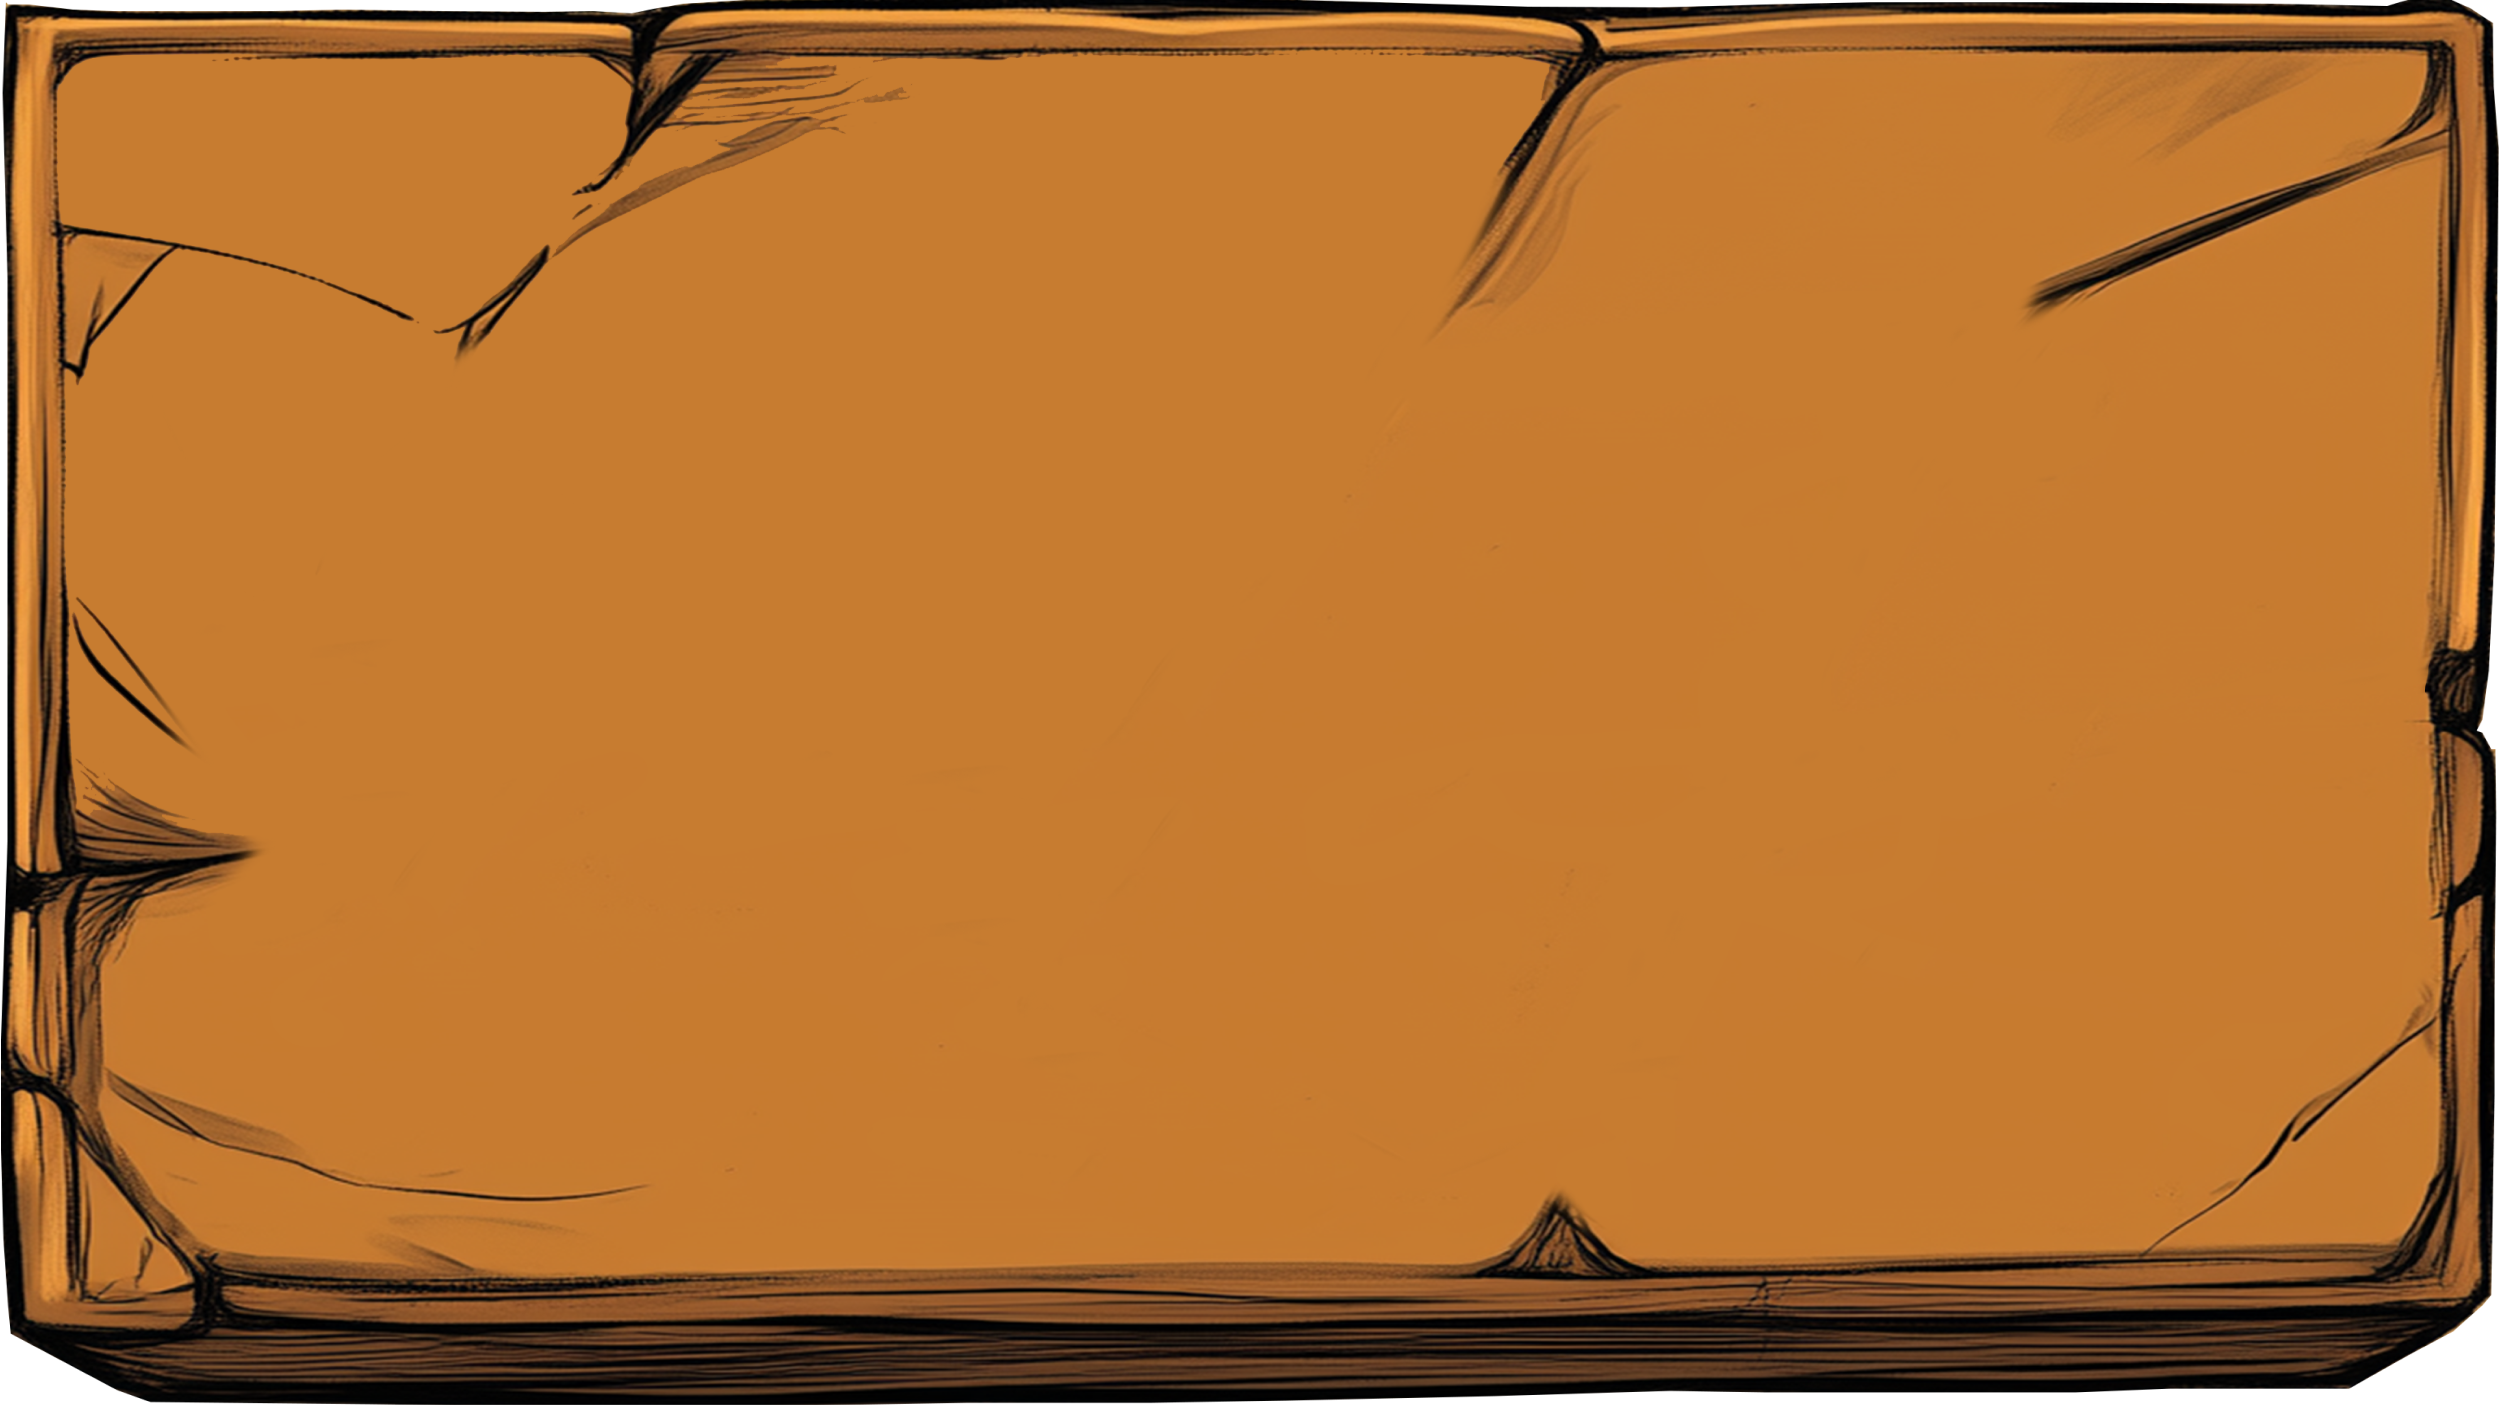
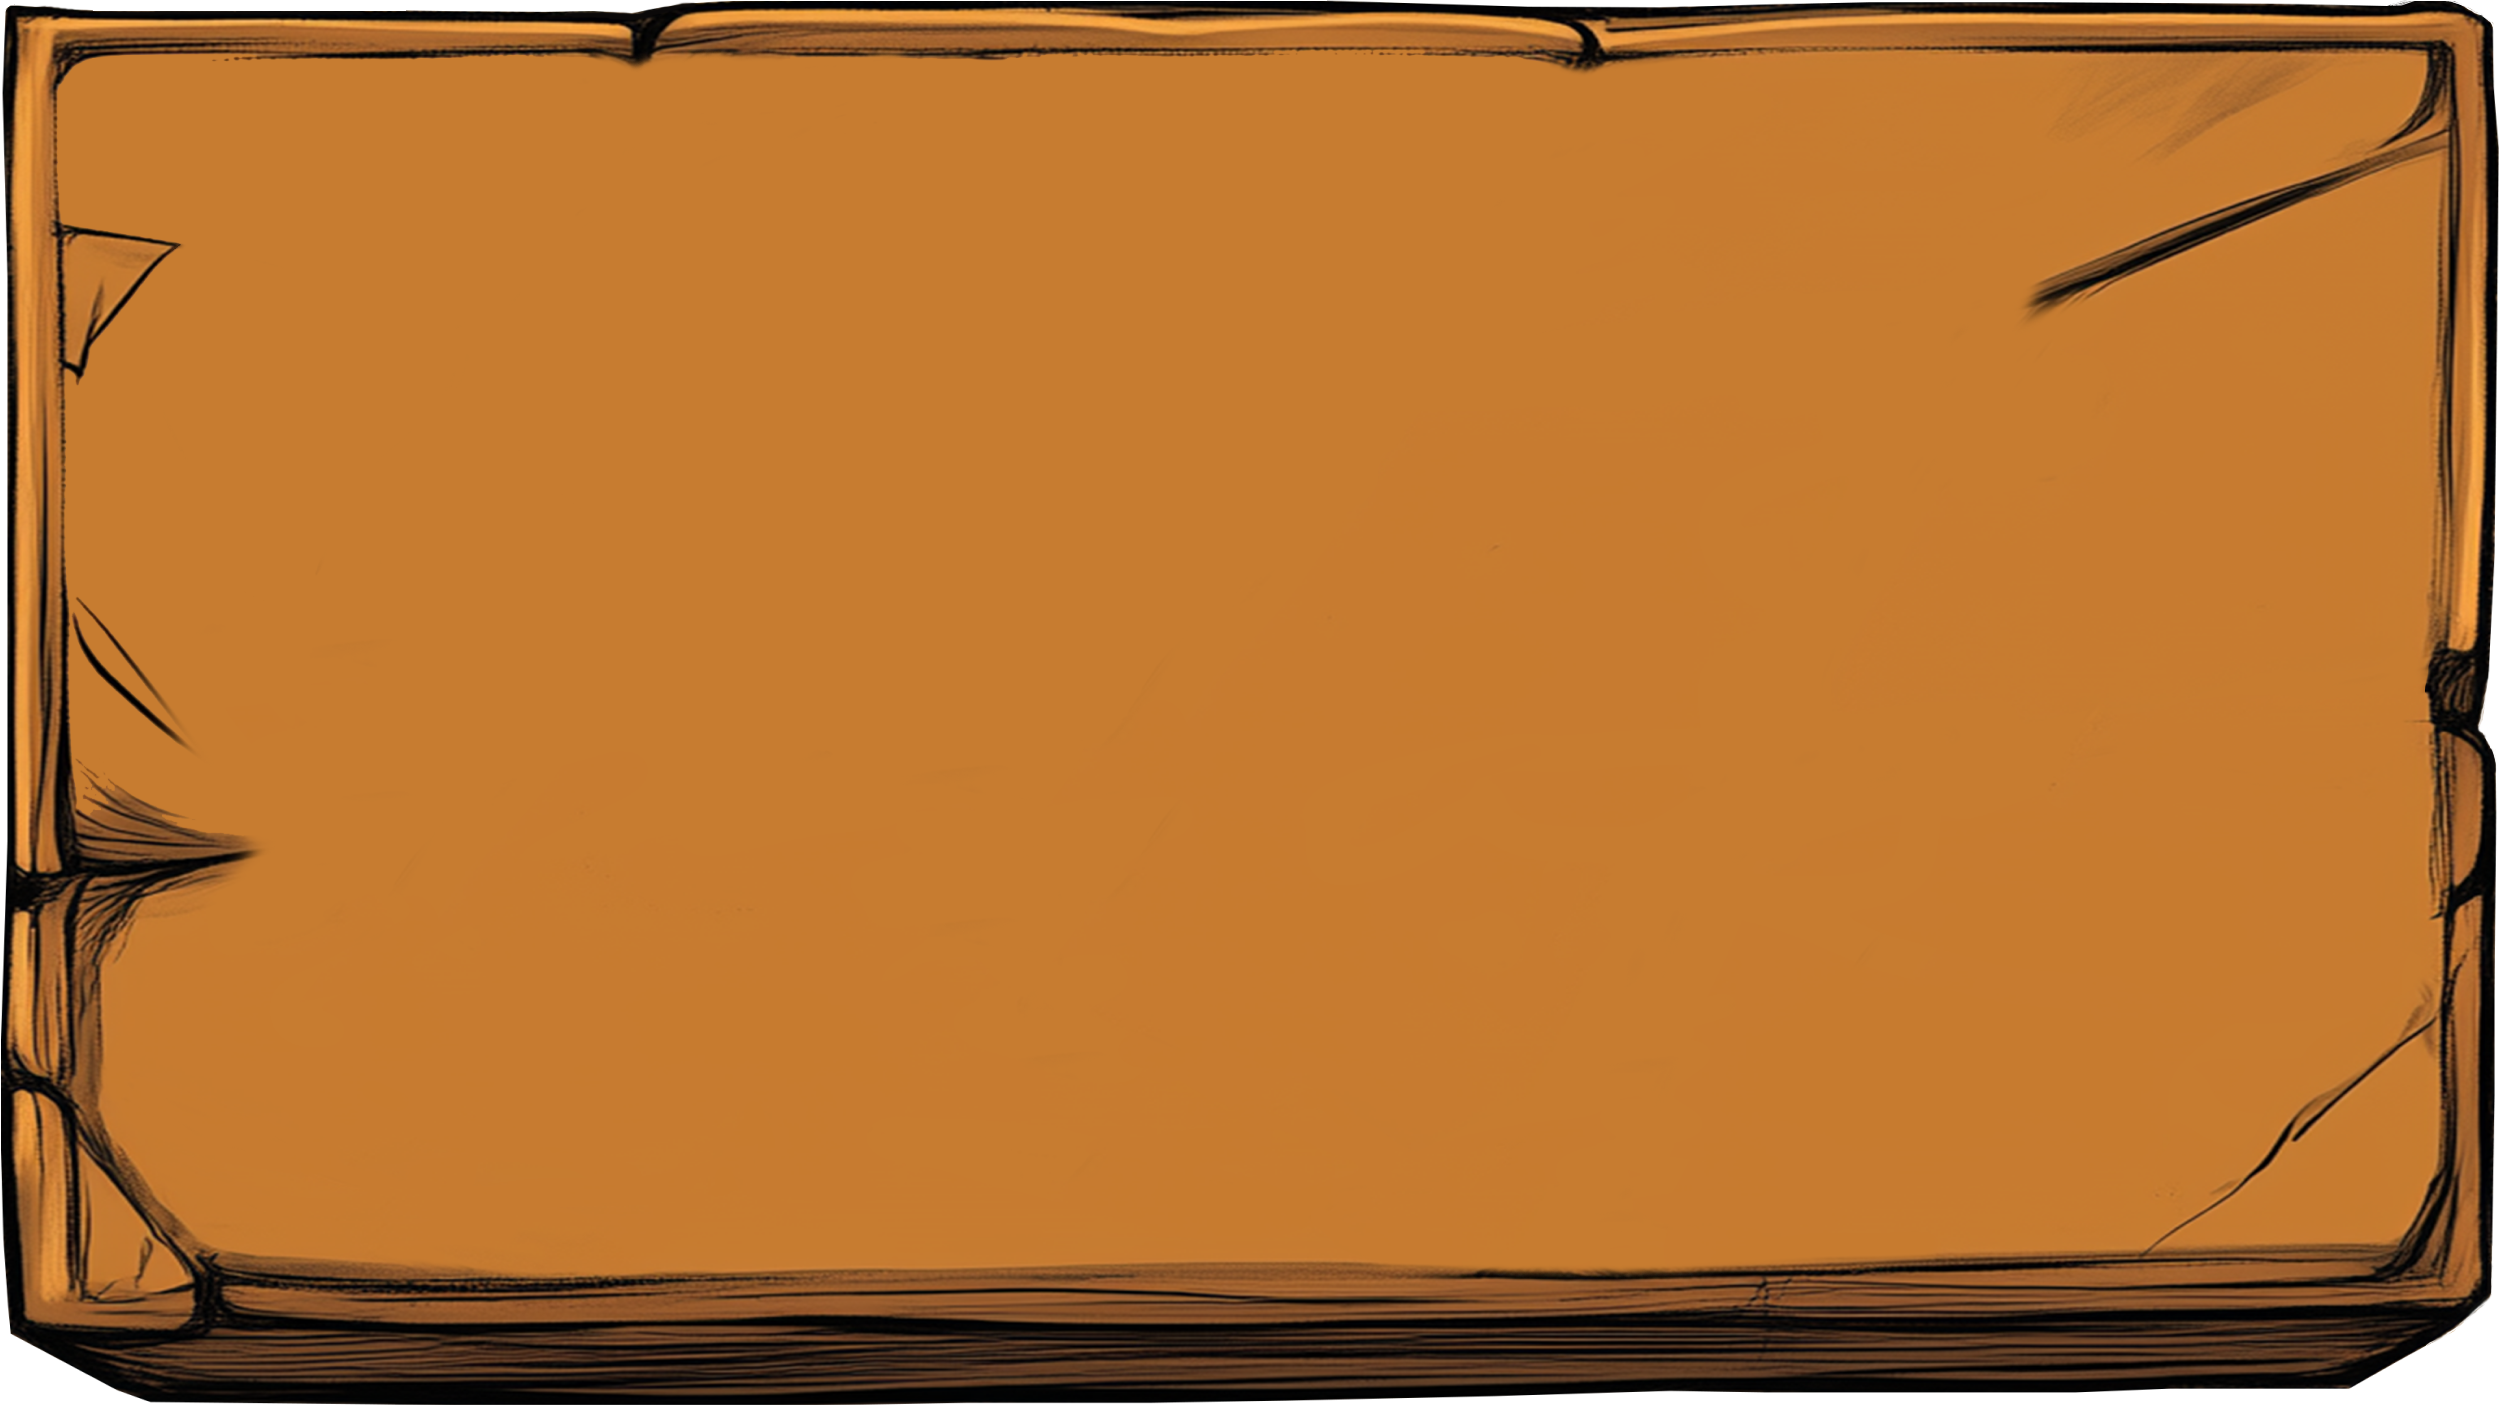
UI enhancements

diff --git a/src/components/MainScreen.jsx b/src/components/MainScreen.jsx
@@ -13,7 +13,7 @@ export default function MainScreen({ config, solvePuzzle, solved, solvedTrigger,
     height: window.innerHeight,
   });
   const [controls, setControls] = useState(true);
-  const [marginTop, setMarginTop] = useState("-10vh");
+  const [marginTop, setMarginTop] = useState("0vh");
 
   const audioSwitchUp = useRef(null);
   const audioSwitchDown = useRef(null);
@@ -29,17 +29,17 @@ export default function MainScreen({ config, solvePuzzle, solved, solvedTrigger,
         setRow2(config.switches.slice(Math.ceil(config.switches.length / 2), config.switches.length));
       }
     }
-    switch (config.skin) {
-      case THEMES.STANDARD:
-        setMarginTop("-2.5vh");
-        break;
-      case THEMES.RETRO:
-        setMarginTop("0vh");
-        break;
-      case THEMES.FUTURISTIC:
-        setMarginTop("1vh");
-        break;
-    }
+    // switch (config.skin) {
+    //   case THEMES.STANDARD:
+    //     setMarginTop("0vh");
+    //     break;
+    //   case THEMES.RETRO:
+    //     setMarginTop("0vh");
+    //     break;
+    //   case THEMES.FUTURISTIC:
+    //     setMarginTop("0vh");
+    //     break;
+    // }
   }, [config.switches]);
 
   useEffect(() => {
@@ -127,12 +127,23 @@ export default function MainScreen({ config, solvePuzzle, solved, solvedTrigger,
       const windowWidth = window.innerWidth;
       const windowHeight = window.innerHeight;
 
+      let contentPercentage = 0.95;
+      // switch (config.skin) {
+      // case THEMES.STANDARD:
+      // case THEMES.RETRO:
+      //   contentPercentage = 0.95;
+      //   break;
+      // case THEMES.FUTURISTIC:
+      //   contentPercentage = 0.95;
+      //   break;
+      // }
+
       const aspectRatio = 16 / 9;
-      let width = windowWidth * 0.9;
+      let width = windowWidth * contentPercentage;
       let height = width / aspectRatio;
 
-      if (height > windowHeight * 0.9) {
-        height = windowHeight * 0.9;
+      if (height > windowHeight * contentPercentage) {
+        height = windowHeight * contentPercentage;
         width = height * aspectRatio;
       }
 
@@ -149,25 +160,23 @@ export default function MainScreen({ config, solvePuzzle, solved, solvedTrigger,
       <div
         className={(solved ? "solved" : "") + " frame"}
         style={{
-          width: size.width * 0.95,
-          height: size.height * 0.95,
+          width: size.width,
+          height: size.height,
           marginTop: marginTop,
           backgroundImage: `url(${config.containerImg})`,
           backgroundSize: "contain",
           backgroundRepeat: "no-repeat"
         }}
       >
-     
-     
         <div className="switches">
           {row1.length > 0 && row2.length > 0 ? (
             <>
-              <div className="row 1" style={{ gap: size.height * 0.012 + "px" }}>
+              <div className="row 1" style={{ gap: size.height * 0.013 + "px" }}>
                 {row1.map((s, index) => (
                   <Switch key={index} id={index} switchData={s} theme={config} setSwitch={setSwitch} size={size} />
                 ))}
               </div>
-              <div className="row 2" style={{ gap: size.height * 0.012 + "px" }}>
+              <div className="row 2" style={{ gap: size.height * 0.013 + "px" }}>
                 {row2.map((s, index) => (
                   <Switch
                     key={index + row1.length}
@@ -181,7 +190,7 @@ export default function MainScreen({ config, solvePuzzle, solved, solvedTrigger,
               </div>
             </>
           ) : (
-            <div className="row" style={{ gap: size.height * 0.012 + "px" }}>
+            <div className="row" style={{ gap: size.height * 0.013 + "px" }}>
               {switches.map((s, index) => (
                 <Switch key={index} id={index} switchData={s} theme={config} setSwitch={setSwitch} size={size} />
               ))}

diff --git a/src/constants/constants.jsx b/src/constants/constants.jsx
@@ -73,8 +73,8 @@ export const THEME_ASSETS = {
   [THEMES.STANDARD]: {
     backgroundImg: "images/basic_bg.png",
     containerImg: "images/basic_container.png",
-    switchOnImg: "images/basic_switch_on.png",
-    switchOffImg: "images/basic_switch_off.png",
+    switchOnImg: "images/switch_standard_on.png",
+    switchOffImg: "images/switch_standard_off.png",
     buttonImg: "images/basic_button.png",
     buttonSolvedImg: "images/basic_button_ok.png",
     switchUpAudio: "sounds/switch1.wav",
@@ -84,7 +84,7 @@ export const THEME_ASSETS = {
     buttonAudio: "sounds/button.wav",
   },
   [THEMES.RETRO]: {
-    backgroundImg: "images/retro_bg.png",
+    backgroundImg: "images/background_retro.jpg",
     containerImg: "images/retro_container.png",
     switchOnImg: "images/retro_switch_on.png",
     switchOffImg: "images/retro_switch_off.png",
@@ -100,8 +100,8 @@ export const THEME_ASSETS = {
     torchAudio: "sounds/torch.wav",
   },
   [THEMES.FUTURISTIC]: {
-    backgroundImg: "images/futuristic_bg_.png",
-    containerImg: "images/futuristic_container_2.png",
+    backgroundImg: "images/futuristic_bg.png",
+    containerImg: "images/futuristic_container.png",
     switchOnImg: "images/futuristic_switch_on.png",
     switchOffImg: "images/futuristic_switch_off.png",
     buttonImg: "images/futuristic_button.png",

diff --git a/src/assets/scss/MainScreen.scss b/src/assets/scss/MainScreen.scss
@@ -10,8 +10,6 @@ div#MainScreen {
     display: flex;
     justify-content: space-evenly;
     align-items: center;
-    margin-top: -3%;
-
     img.panelopen {
       position: absolute;
       width: 100%;
@@ -22,7 +20,8 @@ div#MainScreen {
     div.switches {
       display: flex;
       width: 70%;
-      height: 100%;
+      height: 80%;
+      margin-top: 1.1%;
       flex-direction: column;
       justify-content: center;
       .row {
@@ -34,8 +33,41 @@ div#MainScreen {
     }
     div.button {
       width: 10%;
+      margin-left: -4%;
       aspect-ratio: 1;
       cursor: pointer;
     }
   }
+}
+
+div.standard div#MainScreen div.frame div.switches {
+  margin-top: 1.2%;
+  margin-left: -2%;
+}
+
+div.standard div#MainScreen div.frame div.button {
+  margin-top: 1.2%;
+  margin-left: -6%;
+}
+
+div.retro div#MainScreen div.frame div.switches {
+  height: 83%;
+  margin-top: -3.5%;
+}
+
+div.retro div#MainScreen div.frame div.button {
+  margin-top: -3.5%;
+  margin-left: -5%;
+}
+
+div.futuristic div#MainScreen div.frame div.switches {
+  width: 65%;
+  height: 80%;
+  margin-top: 1%;
+  margin-left: 2%;
+}
+
+div.futuristic div#MainScreen div.frame div.button {
+  margin-top: 1%;
+  margin-left: -7.5%;
 }

diff --git a/src/components/Switch.jsx b/src/components/Switch.jsx
@@ -15,13 +15,13 @@ const Switch = ({ id, switchData, theme, setSwitch, size }) => {
 
   switch (theme.skin) {
     case THEMES.STANDARD:
-      ledBoxMargin = size.width * 0.002;
+      ledBoxMargin = size.width * 0;
       break;
     case THEMES.RETRO:
       ledBoxMargin = size.width * 0.01;
       break;
     case THEMES.FUTURISTIC:
-      ledBoxMargin = size.width * 0.002;
+      ledBoxMargin = size.width * 0;
       break;
   }
 

diff --git a/src/components/App.jsx b/src/components/App.jsx
@@ -127,7 +127,7 @@ export default function App() {
       case SWITCHTYPE.SHAPES:
         switches = (_, i) => ({
           ico: ICONS[i % ICONS.length] || "",
-          colorIco: _appSettings.skin === THEMES.STANDARD ? "white" : "black",
+          colorIco: _appSettings.skin === THEMES.RETRO ? "black" : "white",
         });
         break;
       case SWITCHTYPE.COLORED_SHAPES:
